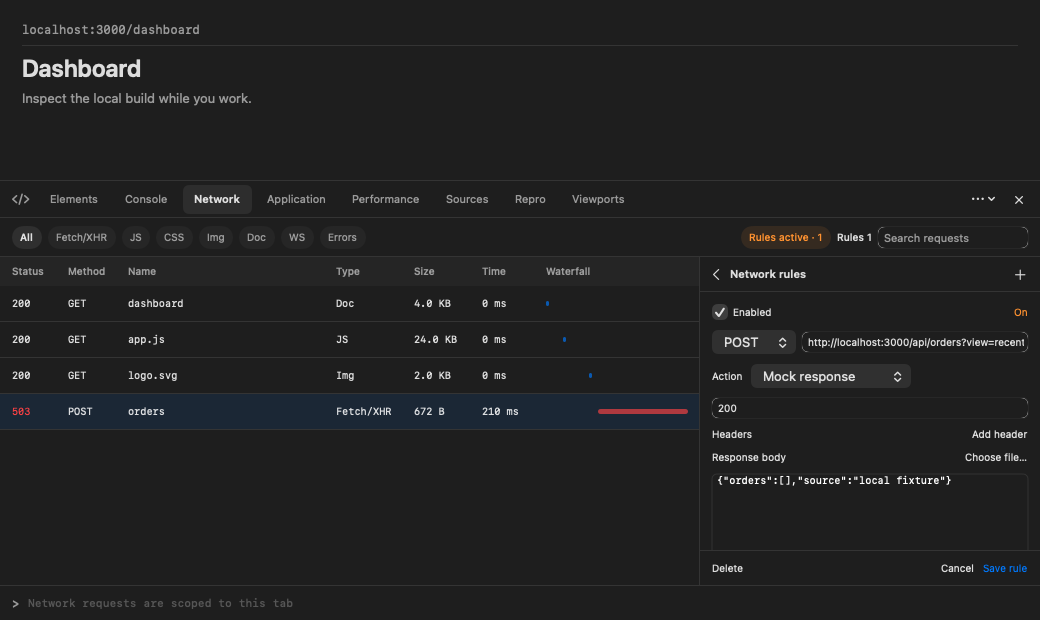
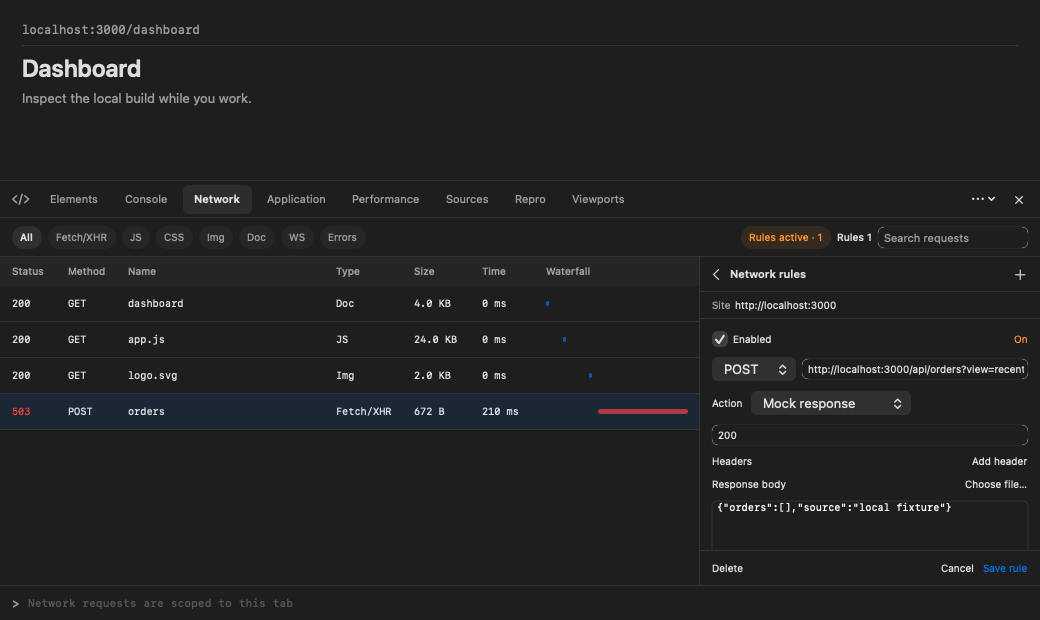
Scope saved Network rules to mapped project folders

diff --git a/Sources/ArcusisBrowser/ShaarNetworkRules.swift b/Sources/ArcusisBrowser/ShaarNetworkRules.swift
@@ -19,6 +19,7 @@ enum ShaarNetworkRuleError: LocalizedError {
   case invalidAction
   case invalidHeaders
   case invalidBody
+  case invalidProject
   case unavailable
 
   var errorDescription: String? {
@@ -27,6 +28,7 @@ enum ShaarNetworkRuleError: LocalizedError {
     case .invalidAction: "Check the rule action and its values."
     case .invalidHeaders: "Header names and values must be valid and bounded."
     case .invalidBody: "The response body must be a regular file or text up to 1 MB."
+    case .invalidProject: "Choose an existing project folder."
     case .unavailable: "Network rules need engine support."
     }
   }
@@ -216,6 +218,7 @@ struct ShaarNetworkRulesPendingTransport: ShaarNetworkRulesTransport {
 @MainActor @Observable
 final class ShaarNetworkRulesModel {
   private(set) var target: SiteControlTarget
+  private(set) var projectRoot: String?
   private(set) var rules: [ShaarNetworkRule] = []
   private(set) var activeCount = 0
   var draft: ShaarNetworkRule?
@@ -224,10 +227,16 @@ final class ShaarNetworkRulesModel {
   @ObservationIgnored private let store: ShaarNetworkRuleStore
   @ObservationIgnored private let transport: any ShaarNetworkRulesTransport
   @ObservationIgnored private var generation = 0
+  @ObservationIgnored private var pendingApply: Task<Void, Error>?
 
   var available: Bool { transport.available }
   var project: String? {
-    target.origin.map { "\(target.profileID.uuidString)|\($0)" }
+    if let projectRoot { return "\(target.profileID.uuidString)|folder:\(projectRoot)" }
+    return target.origin.map { "\(target.profileID.uuidString)|origin:\($0)" }
+  }
+  var projectLabel: String {
+    if let projectRoot { return URL(fileURLWithPath: projectRoot).lastPathComponent }
+    return target.origin ?? "No project"
   }
 
   init(
@@ -291,7 +300,7 @@ final class ShaarNetworkRulesModel {
     let enabled = rules.filter(\.enabled)
     guard enabled.count <= 32 else { throw ShaarNetworkRuleError.invalidAction }
     let resolved = try enabled.map(ShaarResolvedNetworkRule.init)
-    try await transport.apply(resolved, to: target)
+    try await send(resolved, to: target)
     guard self.generation == generation, self.target == target else { return }
     activeCount = enabled.count
     failure = nil
@@ -306,14 +315,57 @@ final class ShaarNetworkRulesModel {
     }
   }
 
-  func updateTarget(_ target: SiteControlTarget) {
-    guard self.target != target else { return }
+  func updateTarget(_ target: SiteControlTarget, committed: Bool = false) {
+    guard self.target != target || committed else { return }
+    let changed = self.target != target
     self.target = target
+    if changed || committed { projectRoot = nil }
     generation += 1
     activeCount = 0
     draft = nil
     showingRules = false
+    if changed || committed { load() }
+  }
+
+  func useProjectRoot(_ candidate: String?) async throws {
+    let root = try Self.canonicalProjectRoot(candidate)
+    guard root != projectRoot else { return }
+    let currentTarget = target
+    generation += 1
+    let generation = generation
+    if available { try await send([], to: currentTarget) }
+    guard target == currentTarget, self.generation == generation else { return }
+    projectRoot = root
+    activeCount = 0
+    draft = nil
     load()
+    if available { try await activate() }
+  }
+
+  private func send(_ rules: [ShaarResolvedNetworkRule], to target: SiteControlTarget) async throws
+  {
+    let previous = pendingApply
+    let transport = transport
+    let task = Task {
+      _ = try? await previous?.value
+      try await transport.apply(rules, to: target)
+    }
+    pendingApply = task
+    try await task.value
+  }
+
+  private static func canonicalProjectRoot(_ candidate: String?) throws -> String? {
+    guard let candidate else { return nil }
+    guard candidate.hasPrefix("/"), candidate.utf8.count <= 1_024 else {
+      throw ShaarNetworkRuleError.invalidProject
+    }
+    let folder = URL(fileURLWithPath: candidate).resolvingSymlinksInPath().standardizedFileURL
+    var isDirectory: ObjCBool = false
+    guard folder.path != "/",
+      FileManager.default.fileExists(atPath: folder.path, isDirectory: &isDirectory),
+      isDirectory.boolValue
+    else { throw ShaarNetworkRuleError.invalidProject }
+    return folder.path
   }
 
   func close() {

diff --git a/Tests/BrowserAppTests/ShaarNetworkRulesTests.swift b/Tests/BrowserAppTests/ShaarNetworkRulesTests.swift
@@ -109,6 +109,43 @@ import Testing
     #expect(model.activeCount == 0)
   }
 
+  @Test func mappedProjectsAtSameOriginKeepSeparateRules() async throws {
+    let temporary = FileManager.default.temporaryDirectory.appending(path: UUID().uuidString)
+    let first = temporary.appending(path: "first")
+    let second = temporary.appending(path: "second")
+    try FileManager.default.createDirectory(at: first, withIntermediateDirectories: true)
+    try FileManager.default.createDirectory(at: second, withIntermediateDirectories: true)
+    defer { try? FileManager.default.removeItem(at: temporary) }
+    let transport = ShaarNetworkRulesFixtureTransport()
+    let model = ShaarNetworkRulesModel(
+      target: target(), store: ShaarNetworkRuleStore(root: temporary.appending(path: "store")),
+      transport: transport)
+    try await model.useProjectRoot(first.path)
+    model.create(from: request())
+    model.draft?.enabled = true
+    try await model.saveDraft()
+    let firstProject = try #require(model.project)
+    #expect(model.activeCount == 1)
+    try await model.useProjectRoot(second.path)
+    #expect(model.rules.isEmpty)
+    #expect(model.activeCount == 0)
+    #expect(transport.lastRules.isEmpty)
+    #expect(model.project != firstProject)
+    try await model.useProjectRoot(first.path)
+    #expect(model.rules.count == 1)
+    #expect(model.activeCount == 1)
+    #expect(model.projectLabel == "first")
+    try await model.useProjectRoot(nil)
+    #expect(model.projectRoot == nil)
+    #expect(model.rules.isEmpty)
+    #expect(transport.lastRules.isEmpty)
+    try await model.useProjectRoot(first.path)
+    model.updateTarget(model.target, committed: true)
+    #expect(model.activeCount == 0)
+    #expect(model.projectRoot == nil)
+    #expect(model.rules.isEmpty)
+  }
+
   private func request() -> ShaarNetworkRequest {
     ShaarNetworkRequest(
       id: "request-1", method: "GET", url: "http://localhost:3000/api",

diff --git a/Tests/BrowserAppTests/ShaarNetworkVisualTests.swift b/Tests/BrowserAppTests/ShaarNetworkVisualTests.swift
@@ -129,6 +129,19 @@ import XCTest
         ShaarDevToolsPanel(model: withRules, inspector: inspector, openChromium: {}),
         named: "after-network-rules-\(suffix)", scheme: scheme,
         appearance: appearance, root: rulesEvidence)
+      let projectFolder = rulesRoot.appending(path: "local-dashboard")
+      try FileManager.default.createDirectory(
+        at: projectFolder, withIntermediateDirectories: true)
+      try await withRules.rules.useProjectRoot(projectFolder.path)
+      withRules.rules.create(from: request)
+      withRules.rules.draft?.enabled = true
+      withRules.rules.draft?.bodyText = "{\"orders\":[],\"source\":\"local fixture\"}"
+      try await withRules.rules.saveDraft()
+      withRules.rules.edit(try XCTUnwrap(withRules.rules.rules.first))
+      try capture(
+        ShaarDevToolsPanel(model: withRules, inspector: inspector, openChromium: {}),
+        named: "project-network-rules-\(suffix)", scheme: scheme,
+        appearance: appearance, root: rulesEvidence)
       withRules.close()
 
       let unavailableRules = ShaarDevToolsModel(

diff --git a/Sources/ArcusisBrowser/ShaarNetworkRulesEditor.swift b/Sources/ArcusisBrowser/ShaarNetworkRulesEditor.swift
@@ -35,6 +35,15 @@ struct ShaarNetworkRulesEditor: View {
       }
       .padding(.horizontal, 12).frame(height: 34)
       Divider()
+      HStack(spacing: 4) {
+        Text(ShellL10n.string(model.projectRoot == nil ? "Site" : "Project"))
+          .foregroundStyle(.secondary)
+        Text(model.projectLabel).lineLimit(1).truncationMode(.middle)
+        Spacer(minLength: 0)
+      }
+      .font(.system(size: 10))
+      .padding(.horizontal, 12).frame(height: 26)
+      Divider()
       if !model.available {
         unavailable
       } else if model.draft != nil {

diff --git a/Sources/ArcusisBrowser/ShaarDevToolsPanel.swift b/Sources/ArcusisBrowser/ShaarDevToolsPanel.swift
@@ -25,6 +25,13 @@ struct ShaarDevToolsPanel: View {
     .onChange(of: inspector?.isOpen) { _, open in
       if open == false && model.isOpen { model.close() }
     }
+    .onChange(of: model.sources.localRoot) { _, root in
+      Task {
+        do { try await model.rules.useProjectRoot(root) } catch {
+          model.rules.failure = error.localizedDescription
+        }
+      }
+    }
     .accessibilityIdentifier("shaar.devtools.shell")
   }
 

diff --git a/Sources/ArcusisBrowser/ShaarDevToolsModel.swift b/Sources/ArcusisBrowser/ShaarDevToolsModel.swift
@@ -265,7 +265,7 @@ final class ShaarDevToolsModel {
     localAvailableSources.removeAll()
     console.clearEntries()
     network.clearSelection()
-    rules.updateTarget(target)
+    rules.updateTarget(target, committed: committed)
     phase2.updateTarget(target, committed: committed)
     viewports.updateTarget(target, committed: committed)
     application.reset()
